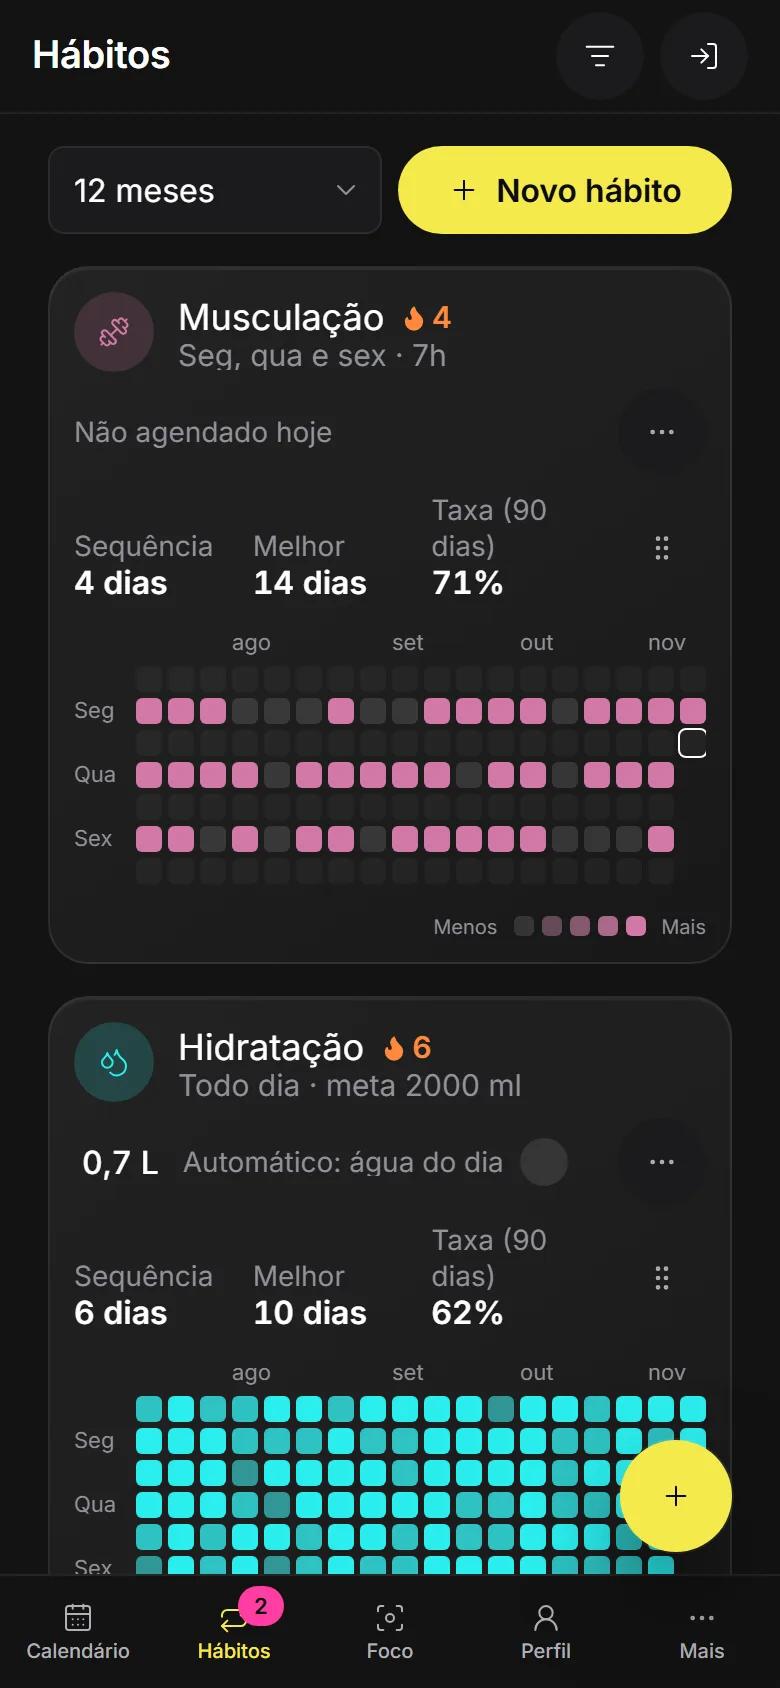
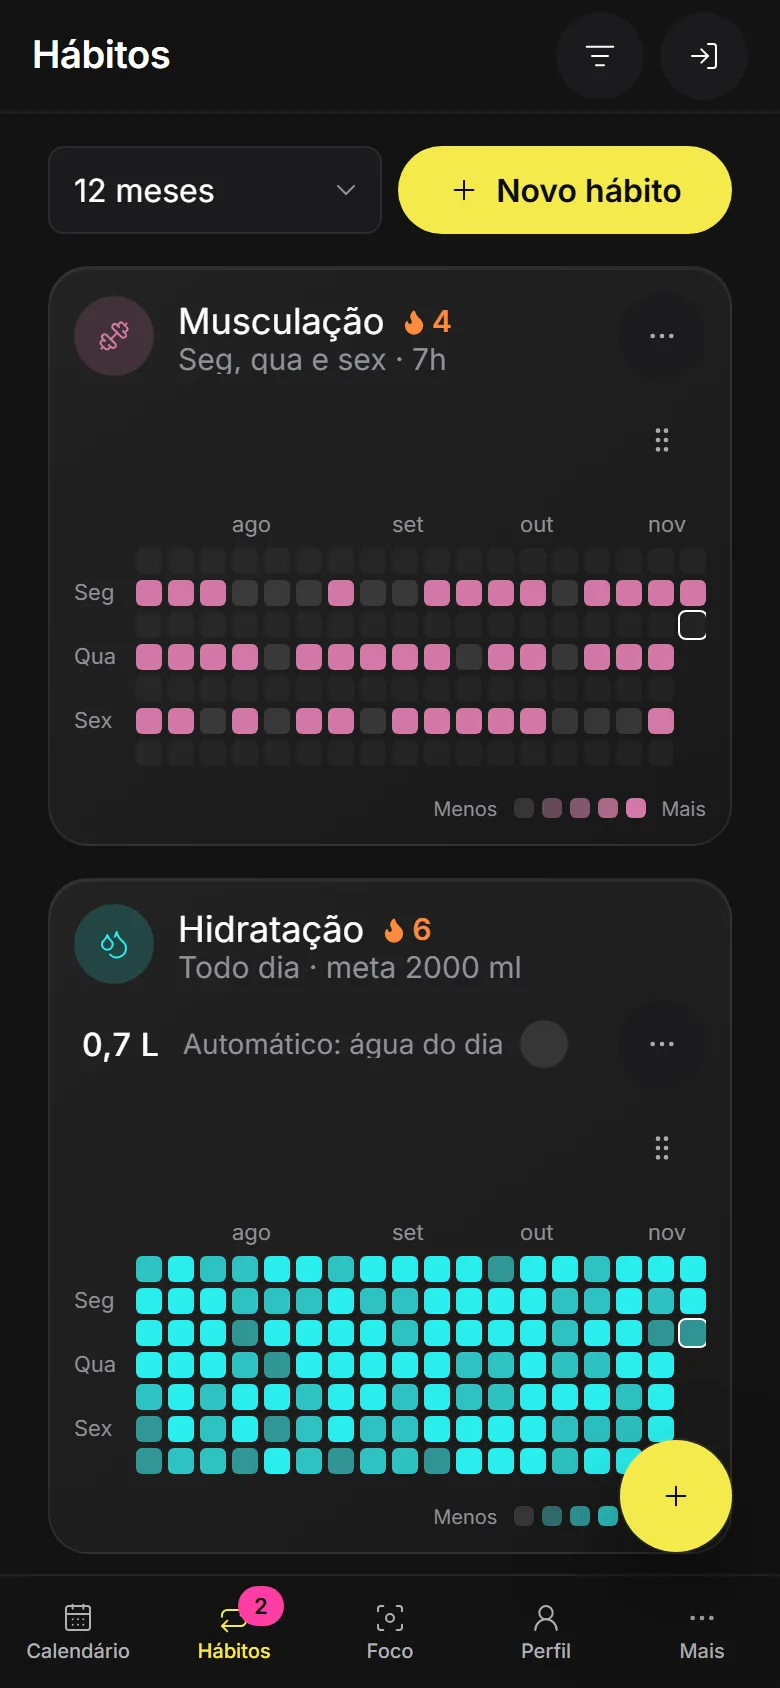
docs: cartões de hábitos mais limpos (README, CHANGELOG e capturas)

diff --git a/README.md b/README.md
@@ -55,7 +55,7 @@ A versão **1.0** está publicada em [https://dailystudyplanner.vercel.app](http
 | --------------------------------------------------------------------------------------------------------------------------------------------------------------- | ----------------------------------------------------------------------------------------------------------------------------------------------------------------------- |
 | **Calendário (Mês)**: tarefas, provas e especiais, com filtro por tipo.<br>![Mês](docs/images/calendario-mes.webp)                                              | **Semana**: grade de horas, eventos simultâneos lado a lado e faixa de hábitos.<br>![Semana](docs/images/calendario-semana.webp)                                        |
 | **Dia**: agenda com painel de hábitos, próxima prova e tarefas.<br>![Dia](docs/images/calendario-dia.webp)                                                      | **Ano**: 12 mini-meses com a densidade de eventos de cada dia.<br>![Ano](docs/images/calendario-ano.webp)                                                               |
-| **Hábitos**: heatmap de contribuições, sequências e taxa por hábito.<br>![Hábitos](docs/images/habitos.webp)                                                    | **Perfil** (antes Estatísticas): tempo de foco, preparação, água, hábitos de hoje e estatísticas pessoais.<br>![Perfil](docs/images/perfil.webp)                        |
+| **Hábitos**: heatmap de contribuições e a sequência de cada hábito.<br>![Hábitos](docs/images/habitos.webp)                                                     | **Perfil** (antes Estatísticas): tempo de foco, preparação, água, hábitos de hoje e estatísticas pessoais.<br>![Perfil](docs/images/perfil.webp)                        |
 | **Tarefas**: Atrasadas, Hoje e todas as Próximas, com concluir em um clique e o botão “Nova tarefa”.<br>![Tarefas](docs/images/tarefas.webp)                    | **Painel de tarefa**: tipo, status em 3 opções, prazo, conteúdos/subtarefas e descrição.<br>![Painel de tarefa](docs/images/painel-tarefa.webp)                         |
 | **Tarefas recorrentes**: repetir com atalhos ou personalizado, resumo e prévia das próximas datas.<br>![Repetir no painel](docs/images/recorrentes-painel.webp) | **Escopo**: editar ou excluir só esta ocorrência, esta e as próximas, ou todas.<br>![Escopo da edição](docs/images/recorrentes-escopo.webp)                             |
 | **Tema claro**: o mesmo app em fundo claro, com o seletor Sistema, Claro ou Escuro.<br>![Tema claro](docs/images/tema-claro-calendario.webp)                    | **Perfil no claro**: cartões brancos, tinta escura e as cores de significado com contraste AA.<br>![Perfil no tema claro](docs/images/tema-claro-perfil.webp)           |
@@ -86,7 +86,7 @@ A versão **1.0** está publicada em [https://dailystudyplanner.vercel.app](http
 - [x] **Modo Foco** (`/foco`): anel minimalista com tempo editável por digitação (1 min a 3 h), histórico de sessões e **travamento do app** (veja abaixo)
 - [x] Preferências do perfil: nome, meta de água, copo, duração padrão do foco e "travar por padrão"
 - [x] Várias abas/janelas ficam sincronizadas (evento `storage`)
-- [x] **Hábitos recorrentes** (`/habitos`): dias da semana ou a cada N dias, horário opcional, tipo check ou quantidade, fontes automáticas (água, foco, blocos de estudo), **8 cores** (as mesmas das matérias, num seletor 2 × 4), **calendário de contribuições** por hábito (estilo GitHub), sequência, melhor sequência e taxa; **dias de descanso** (inclusive na água) que não quebram a sequência; as antigas metas migram para hábitos; **reordene arrastando pela alça** (mouse, toque ou teclado) ou pelo menu "..."
+- [x] **Hábitos recorrentes** (`/habitos`): dias da semana ou a cada N dias, horário opcional, tipo check ou quantidade, fontes automáticas (água, foco, blocos de estudo), **8 cores** (as mesmas das matérias, num seletor 2 × 4), **calendário de contribuições** por hábito (estilo GitHub) e a sequência na chama ao lado do nome; **dias de descanso** (inclusive na água) que não quebram a sequência; as antigas metas migram para hábitos; **reordene arrastando pela alça** (mouse, toque ou teclado) ou pelo menu "..."
 - [x] **Água editável**: toque no valor da água (cartão e hábito) para editar, excluir (com Desfazer), definir o total do dia ou digitar uma quantidade (`300 ml`, `0,3 l`); dias anteriores pelo heatmap do hábito (até 366 dias)
 - [x] **Estatísticas** (`/estatisticas`): painel “Hoje” (horas da semana, preparação para a próxima prova, sequência, água, hábitos de hoje e agenda) e “Análises” (semana, mês ou 90 dias) com cinco gráficos em SVG próprio e o heatmap de consistência dos hábitos
 

diff --git a/CHANGELOG.md b/CHANGELOG.md
@@ -4,6 +4,10 @@ Formato baseado em [Keep a Changelog](https://keepachangelog.com/pt-BR/1.1.0/). 
 
 ## [Não lançado]
 
+### Alterado (cartões de hábitos)
+
+- **Cartões de hábitos mais limpos:** saem os números Sequência, Melhor e Taxa (90 dias) e os avisos “Não agendado hoje” e “Descanso hoje”. A sequência continua na chama ao lado do nome; o heatmap mostra os dias de descanso.
+
 ### Adicionado (paleta completa)
 
 - **Novas cores para hábitos e matérias:** o seletor oferece 8 (vermelho, laranja, amarelo, lima, verde, ciano, azul e fúcsia), em 2 linhas × 4 colunas, com valores próprios no escuro e no claro e contraste AA em todos os usos. Hábitos e matérias com as cores antigas continuam iguais.
